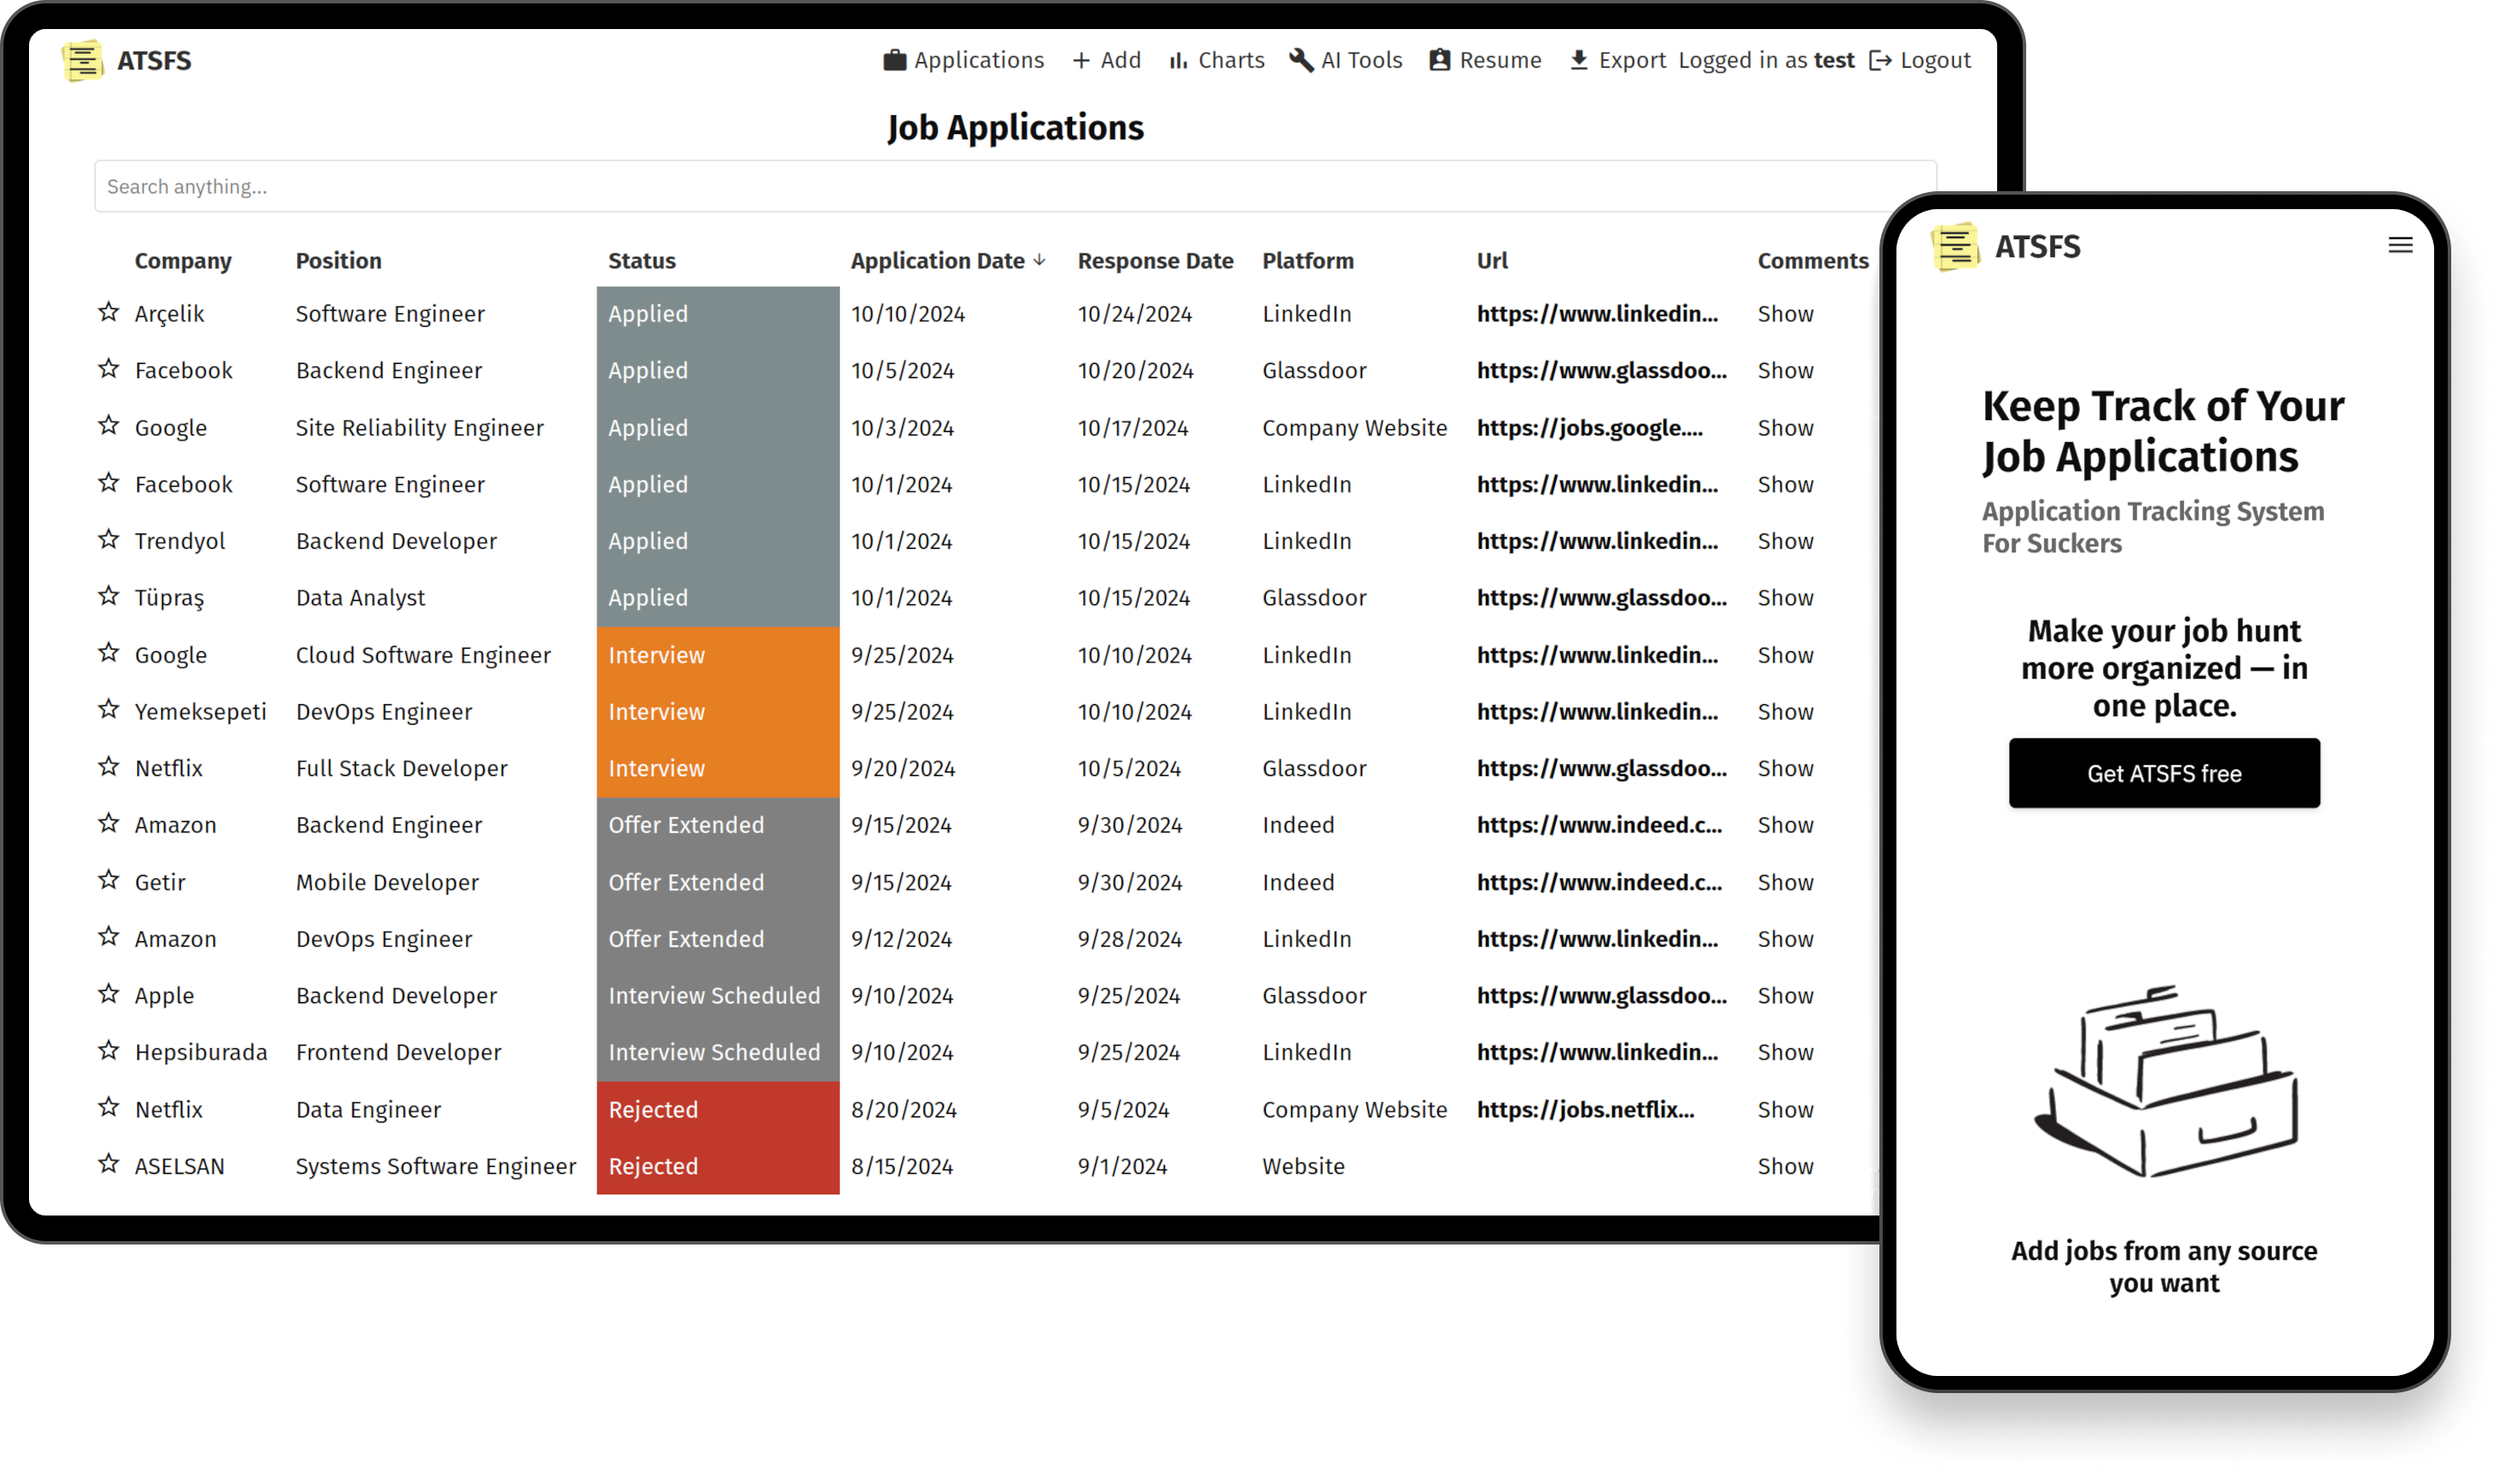
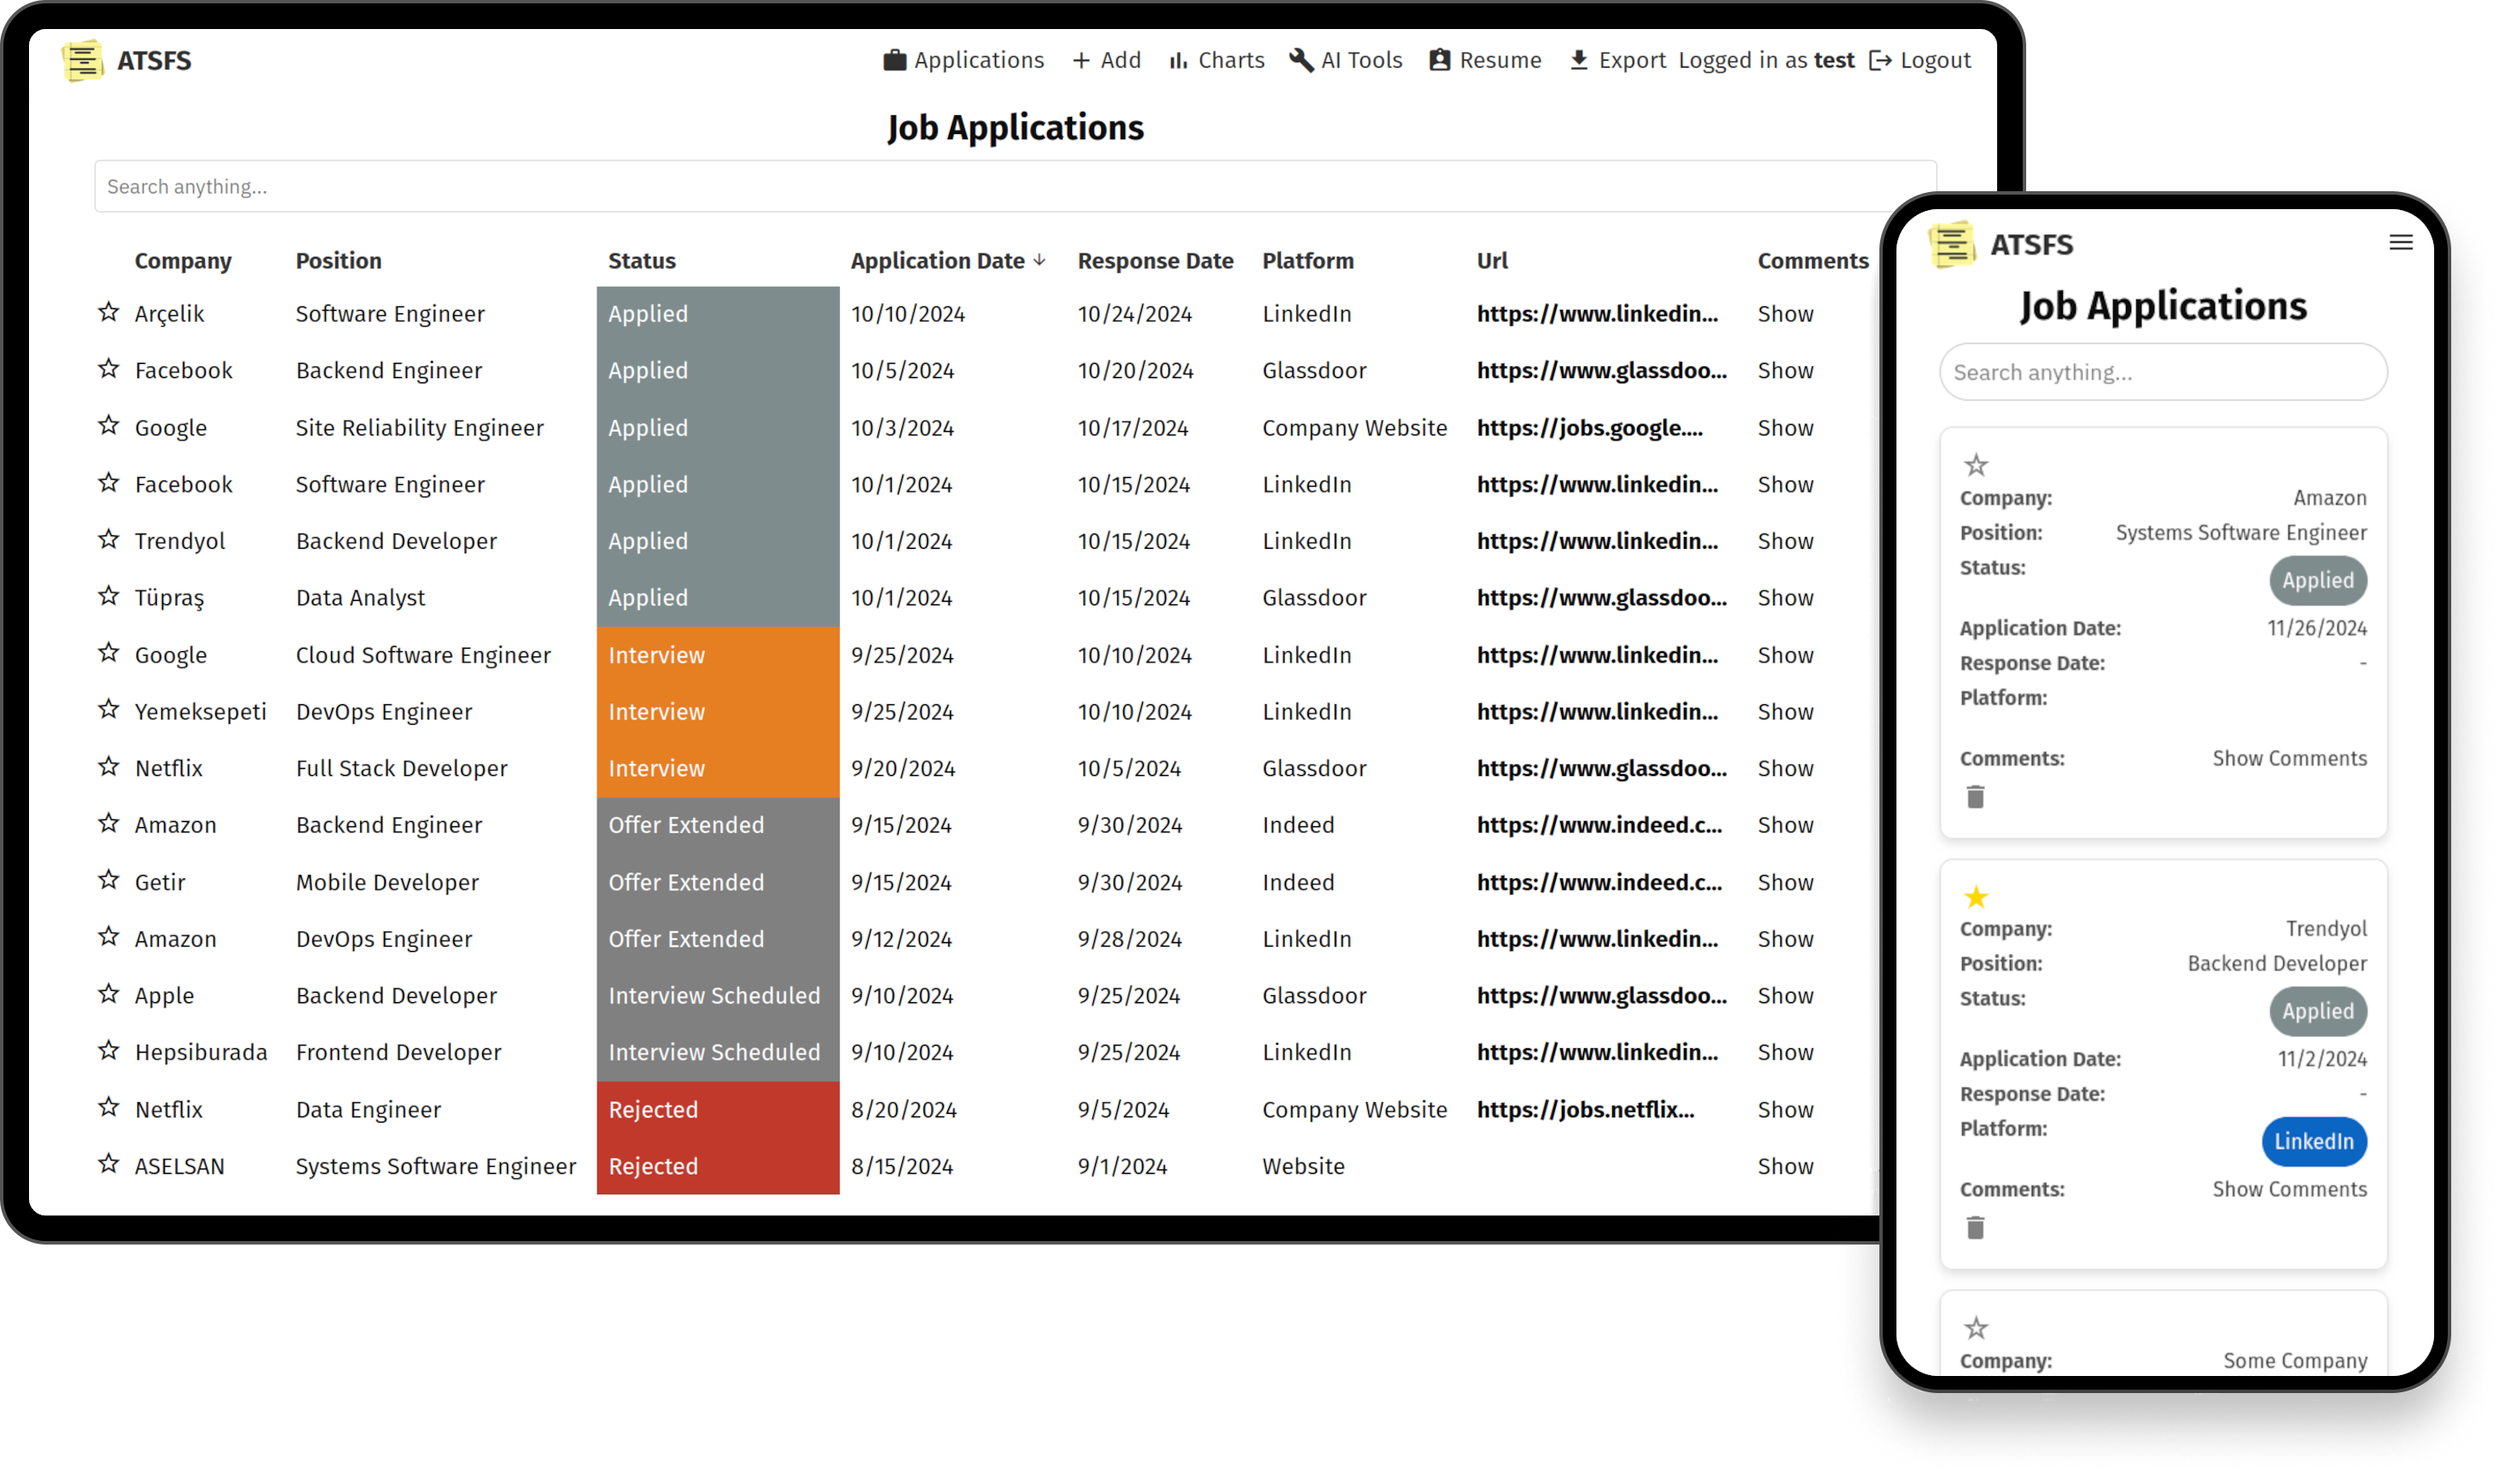
adjustments to homescreen to show new mobile card layout

diff --git a/frontend/src/styles/Home.css b/frontend/src/styles/Home.css
@@ -96,7 +96,7 @@
 
 @media (max-width: 480px) {
     .home-container {
-        margin-top: 40px;
+        margin-top: 20px;
     }
 
     .big-text {
@@ -160,14 +160,14 @@ a:hover {
 .screenshot-section {
     display: flex;
     align-items: flex-start; /* Align items to the start */
-    margin: 20px;
+    margin: 6px;
     text-align: left;
 }
 
 .screenshot-container {
     flex: 1; /* Allow the screenshot to take space */
-    max-width: 50%; /* Control the maximum width */
-    margin-right: 20px; /* Space between image and text */
+    max-width: 100%; /* Control the maximum width */
+    margin-right: 6px; /* Space between image and text */
 }
 
 /* Screenshot styling */
@@ -179,7 +179,7 @@ a:hover {
 /* Text container */
 .screenshot-text {
     flex: 1; /* Allow text to take remaining space */
-    max-width: 50%; /* Control the maximum width */
+    max-width: 20%; /* Control the maximum width */
 }
 
 @media (max-width: 768px) {
